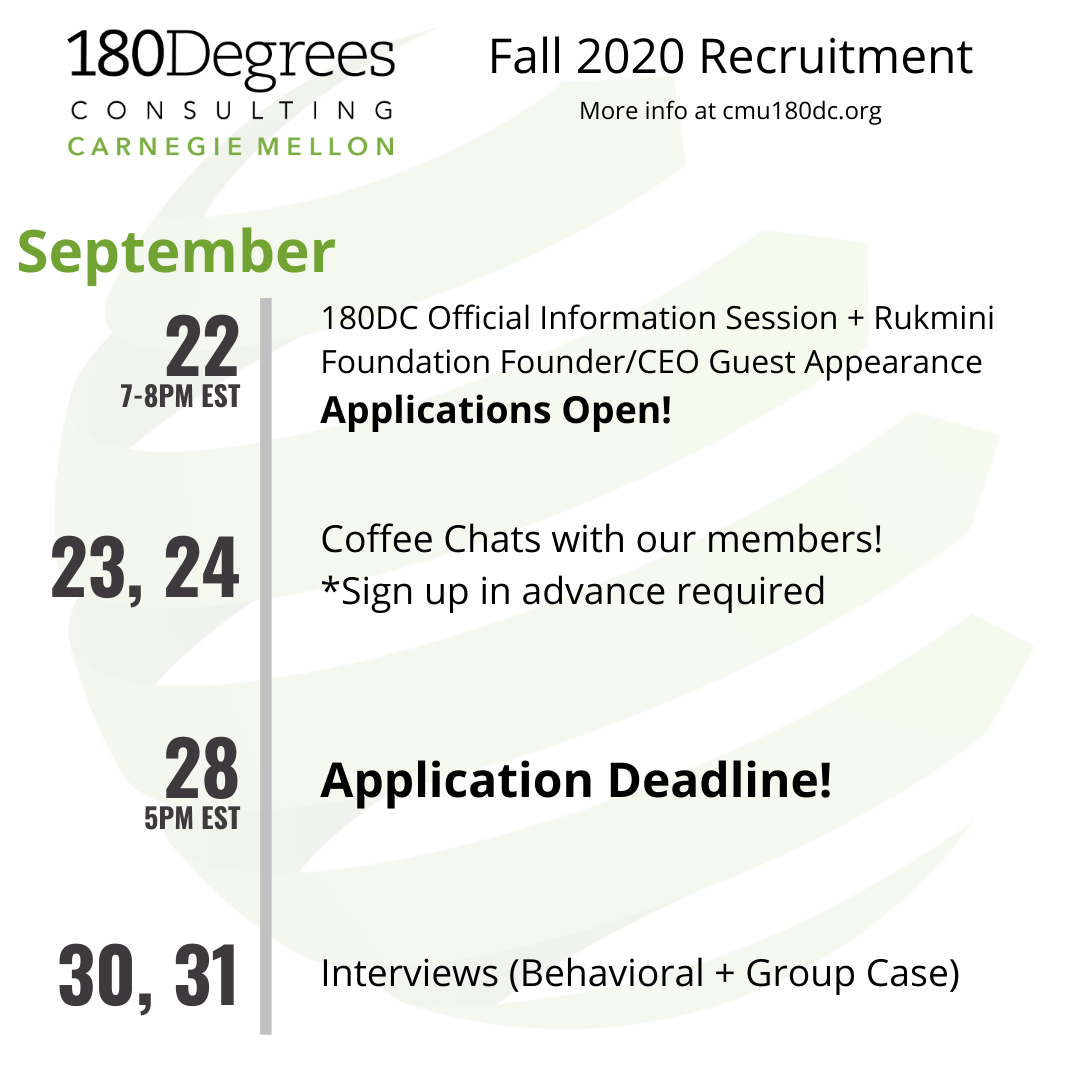
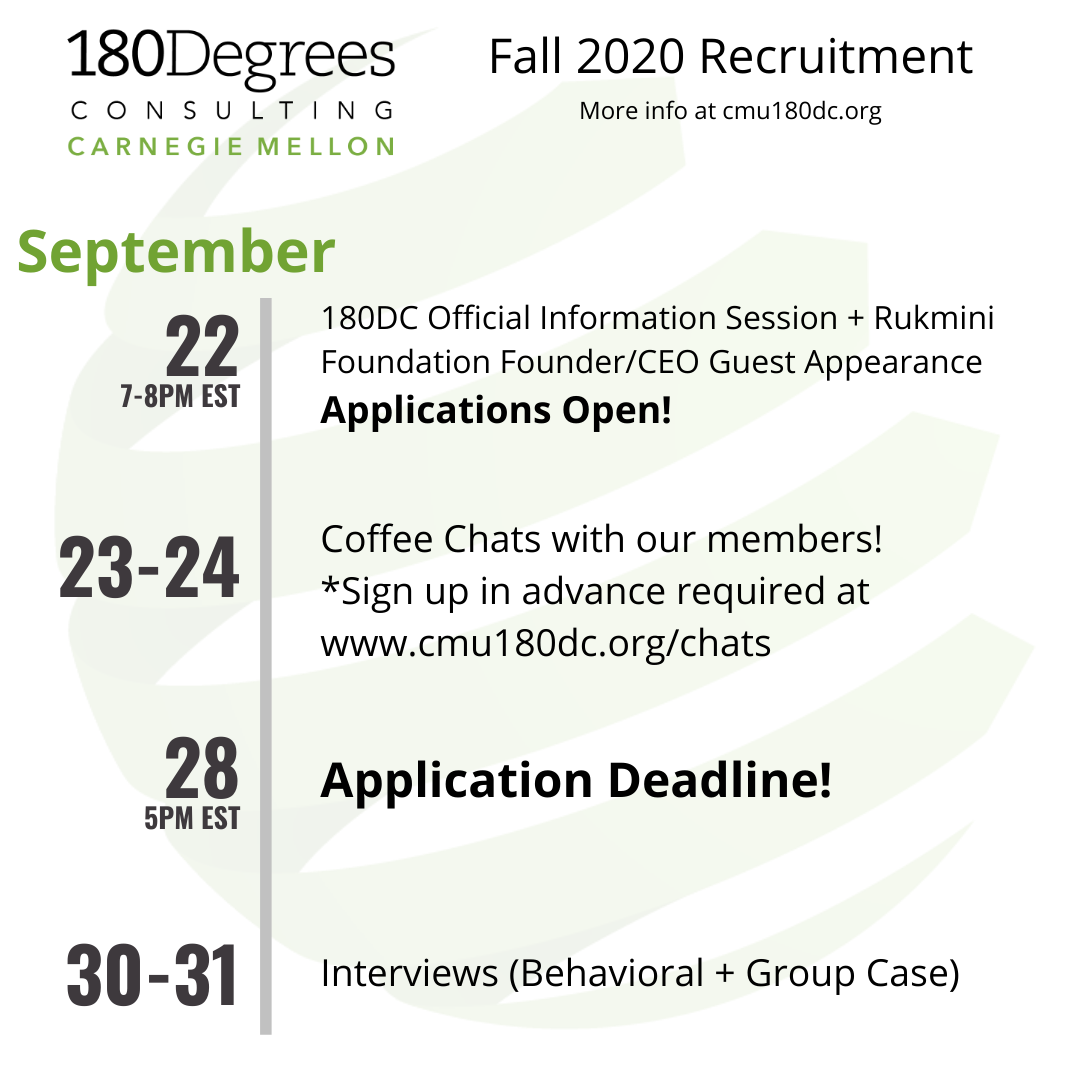
updated recruitment page

diff --git a/index.html b/index.html
@@ -135,21 +135,21 @@
 
     <!-- Masthead -->
     <header class="parallax-window masthead" data-parallax="scroll" data-image-src="assets/masthead3.jpg">
-            <div class="onMobile row justify-content-center justify-content-md-end text-center">
-                <nav class="navigation navbar navbar-expand-lg navbar-dark justify-content-center" id="nav">
-                    <a id="tog" class="navbar-toggler" data-toggle="collapse" data-target="#navbarCollapse"
-                        aria-controls="navbarCollapse" aria-expanded="false" aria-label="Toggle navigation"
-                        onClick="toggleFooter()">Menu
-                    </a>
-                    <div class="collapse navbar-collapse" id="navbarCollapse">
-                        <a class="nav-link p-1" href="#">Home</a>
-                        <a class="nav-link p-1" href="people.html">Our People</a>
-                        <a class="nav-link p-1" href="work.html">Our Work</a>
-                        <a class="nav-link p-1" href="recruitment.html">Recruitment</a>
-                    </div>
-                </nav>
-            </div>
-        
+        <div class="onMobile row justify-content-center justify-content-md-end text-center">
+            <nav class="navigation navbar navbar-expand-lg navbar-dark justify-content-center" id="nav">
+                <a id="tog" class="navbar-toggler" data-toggle="collapse" data-target="#navbarCollapse"
+                    aria-controls="navbarCollapse" aria-expanded="false" aria-label="Toggle navigation"
+                    onClick="toggleFooter()">Menu
+                </a>
+                <div class="collapse navbar-collapse" id="navbarCollapse">
+                    <a class="nav-link p-1" href="#">Home</a>
+                    <a class="nav-link p-1" href="people.html">Our People</a>
+                    <a class="nav-link p-1" href="work.html">Our Work</a>
+                    <a class="nav-link p-1" href="recruitment.html">Recruitment</a>
+                </div>
+            </nav>
+        </div>
+
         <nav id="nav" class="onDesktop navbar navbar-expand-sm justify-content-center">
             <a class="navbar-toggler" data-toggle="collapse" data-target="#navbarCollapse"
                 aria-controls="navbarCollapse" aria-expanded="false" aria-label="Toggle navigation"

diff --git a/people.html b/people.html
@@ -251,6 +251,7 @@
                         </div>
                     </div>
                 </div>
+                <!--
                 <div class="col-6 col-md-4 col-lg-3 my-2">
                     <div class="card hoverable h-100">
                         <div class="my-3">
@@ -274,6 +275,7 @@
                         </div>
                     </div>
                 </div>
+                -->
             </div>
         </div>
     </section>
@@ -513,28 +515,6 @@
                                 <p class="card-text">
                                     <li>Class of 2023</li>
                                     <li><span class="font-weight-bold"> Major:</span> Business Administration</li>
-                                    <li><a href="https://www.linkedin.com" target="_blank" rel="noopener">LinkedIn</a>
-                                    </li>
-                                </p>
-                            </div>
-                        </div>
-                    </div>
-                </div>
-                <div class="col-6 col-md-4 col-lg-3 my-2">
-                    <div class="card hoverable h-100">
-                        <div class="my-3">
-                            <a href="https://www.linkedin.com" target="_blank" rel="noopener">
-                                <h5 class="card-title m-1 p-0">Kathryn Phelps</h5>
-                            </a>
-                        </div>
-                        <div class="mx-1">
-                            <div class="align-self-center mb-3 m-auto">
-                                <img class="card-img-top thumbnail hoverable img-fluid" src="assets/headshots/kphelps.jpg">
-                            </div>
-                            <div class="card-body p-1">
-                                <p class="card-text">
-                                    <li>Class of 2021</li>
-                                    <li><span class="font-weight-bold"> Major:</span> Information Systems</li>
                                     <li><a href="https://www.linkedin.com" target="_blank" rel="noopener">LinkedIn</a>
                                     </li>
                                 </p>

diff --git a/chats.html b/chats.html
@@ -1,0 +1,23 @@
+<!DOCTYPE html>
+<html lang="en">
+
+<head>
+    <meta http-equiv="refresh" content="0; URL=https://docs.google.com/forms/d/e/1FAIpQLScgCW4vYDrxNDpxokJXO_dAdD85QXXKkhKpXa4QJ7UeOX8ERw/viewform" />
+    <meta charset="utf-8" />
+    <meta http-equiv="X-UA-Compatible" content="IE=edge" />
+    <meta name="viewport" content="width=device-width, initial-scale=1" />
+    <meta name="description" content="CMU 180 Degrees Consulting Chats" />
+    <meta name="author" content="" />
+    <link rel="shortcut icon" href="assets/logo.png" />
+    <title>CMU 180DC Chats</title>
+
+    <!-- Open Graph Meta Tags -->
+    <meta property="og:title" content="CMU 180 Degrees Consulting Coffee Chats" />
+    <meta property="og:type" content="website" />
+    <meta property="og:image" content="https://i.ibb.co/3WBPLnq/asa.jpg" />
+
+</head>
+
+<body>
+
+</body>

diff --git a/recruitment.html b/recruitment.html
@@ -91,7 +91,7 @@
         <div class="row justify-content-center">
             <div class="col-lg-5 text-center my-2">
                 <h1 class="font-weight-bold">Fall 2020 Recruitment Schedule</h1>
-                <h4>See you there!</h4>
+                <h4><a href="chats.html" target="_blank">Sign up for Coffee Chats!</a></h4>
                 <br>
                 <a href="assets/180dcRecruitment.png" target="_blank">
                     <img class="hoverable rounded" src="assets/180dcRecruitment.png" width=90%;>
